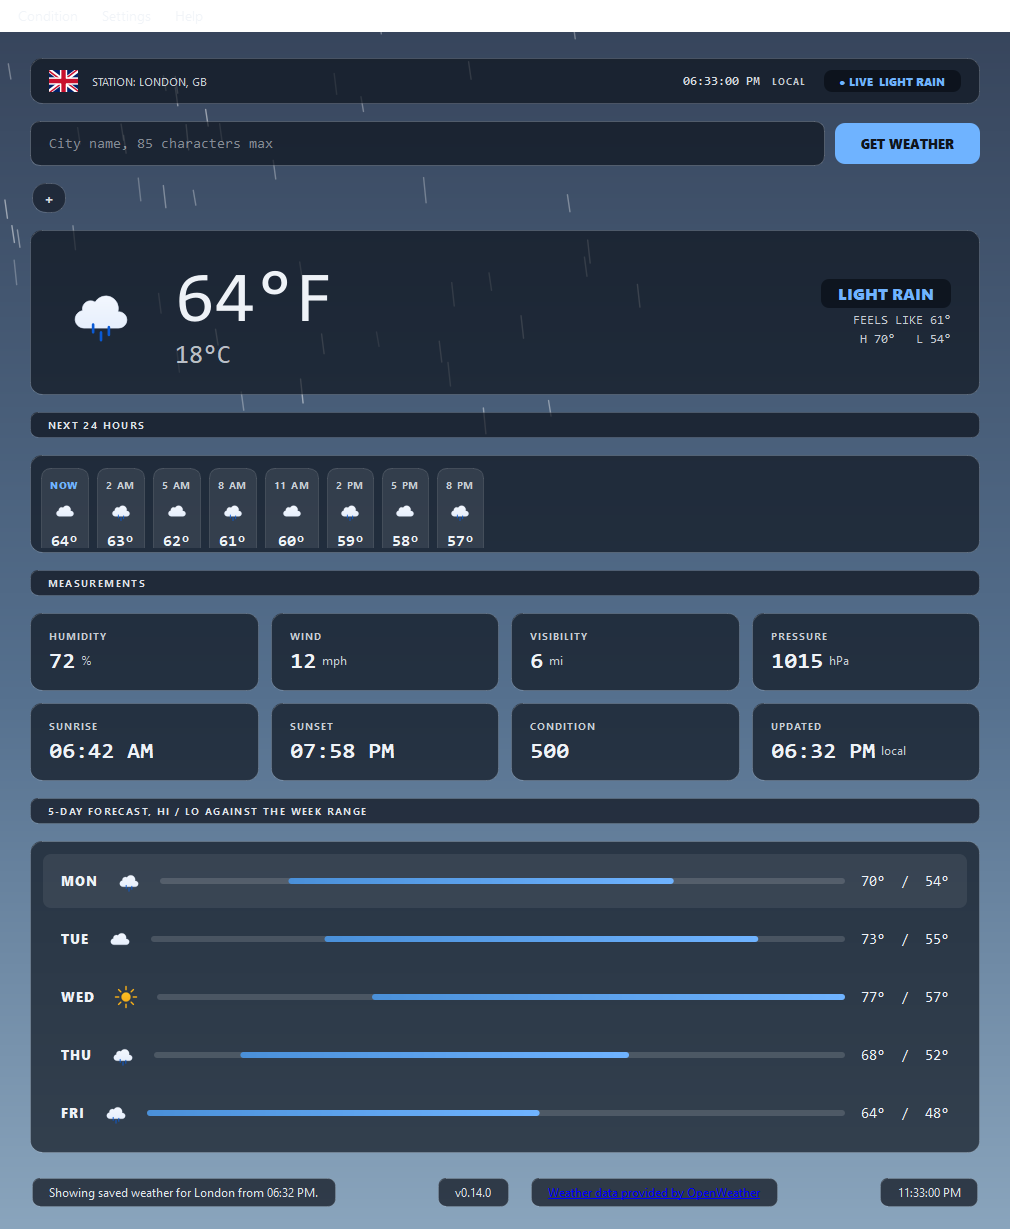
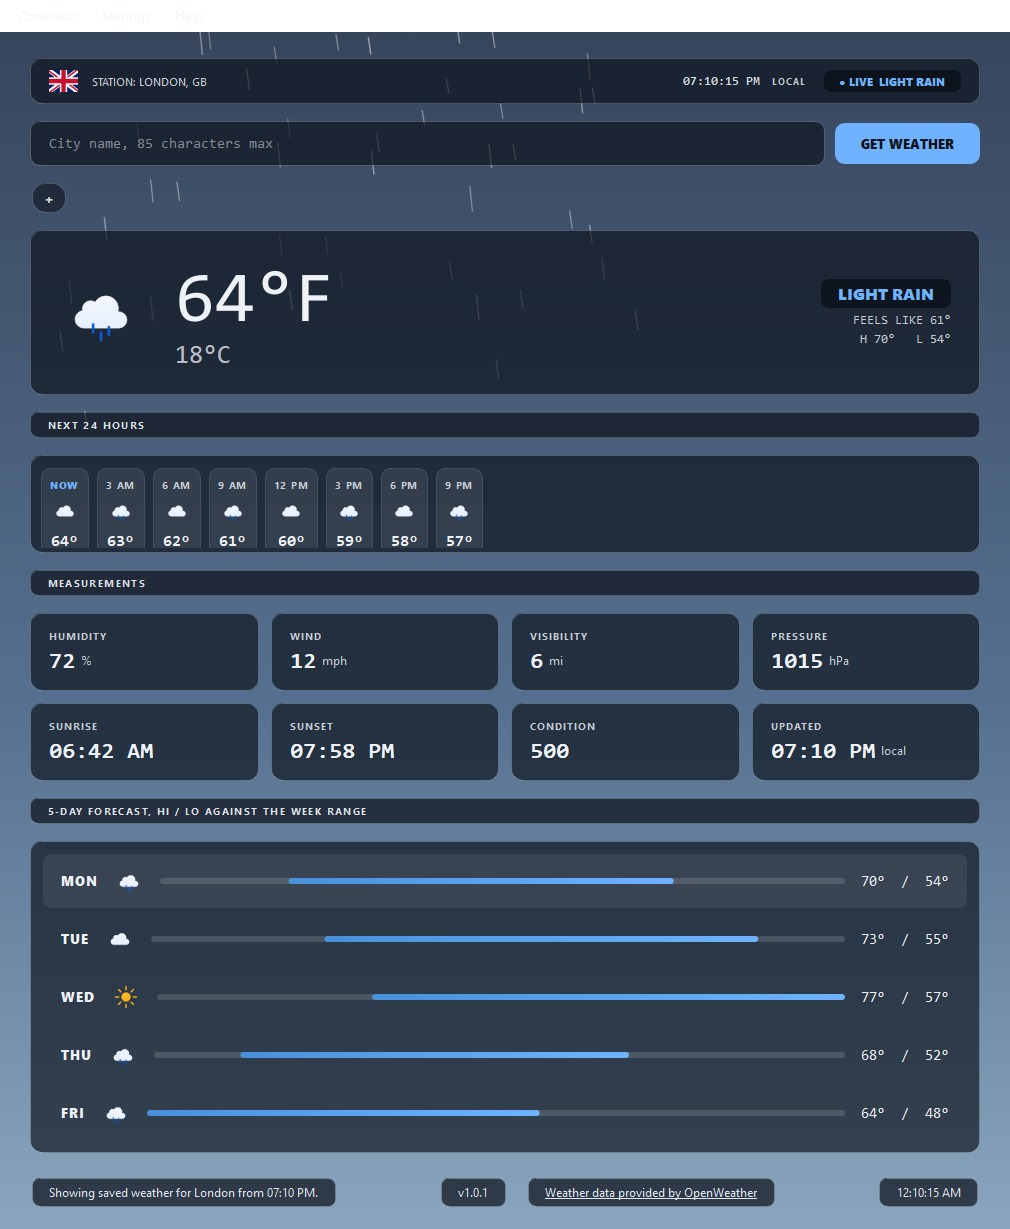
Release v1.0.1: fix silent uninstall data loss, white links, new screenshots

diff --git a/docs/release-plan.md b/docs/release-plan.md
@@ -144,7 +144,9 @@ hours to activate, which our 401 message already mentions).
   VERSION file, Program Files default with per-user option, Start
   Menu and optional desktop shortcuts, uninstall entry.
 - [x] 2.2 (M) Uninstaller offers to keep user data (key, settings,
-  favorites) and defaults to keeping it.
+  favorites) and defaults to keeping it. Amended in v1.0.1: silent
+  uninstalls (/SUPPRESSMSGBOXES) bypassed the prompt and deleted data;
+  they now always keep data.
 - [x] 2.3 (M) Portable zip variant: the onedir tree plus a README
   line; `.env` next to the EXE works without any install or admin
   rights.

diff --git a/docs/changelog.md b/docs/changelog.md
@@ -228,6 +228,18 @@
 
 ---
 
+## v1.0.1
+
+- Fixed a data-loss risk: a silent uninstall (running the uninstaller
+  with /SUPPRESSMSGBOXES, or scripted removals) deleted the user data
+  folder without asking. Silent uninstalls now always keep data;
+  interactive uninstalls still ask, with keep as the default.
+- The OpenWeatherMap attribution links (footer and About dialog) are
+  light-colored for readability on the dark theme.
+- Refreshed the README screenshots.
+
+---
+
 ## Upcoming
 
-- Release sprint: clean-machine pass, GitHub release with artifacts.
+- Post-release watch.
